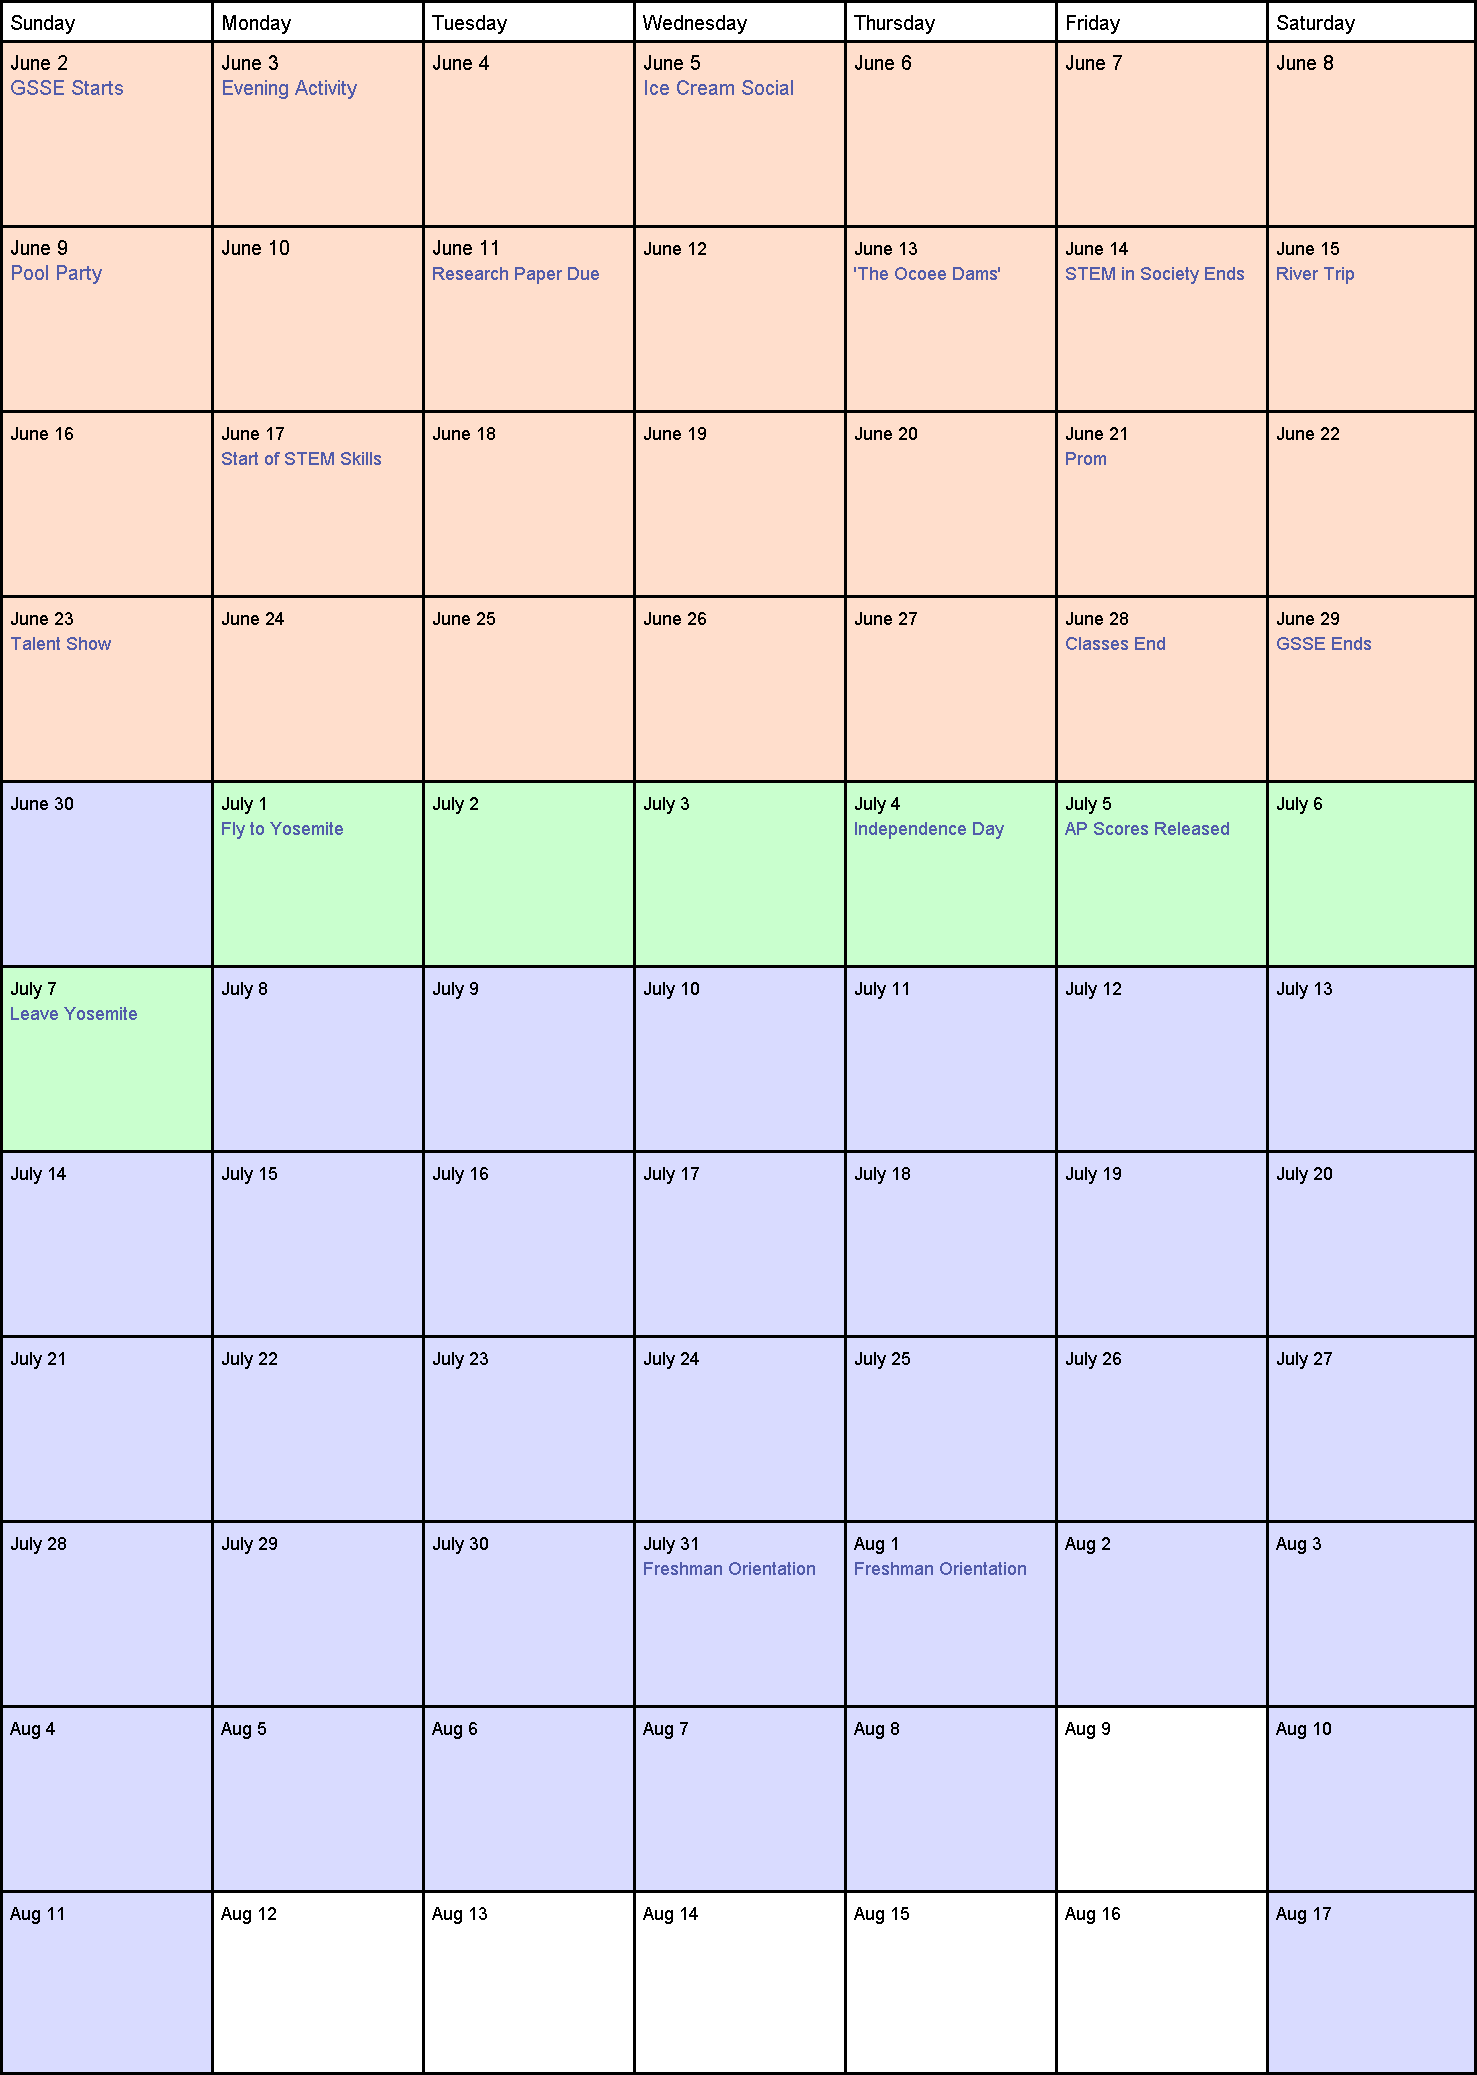
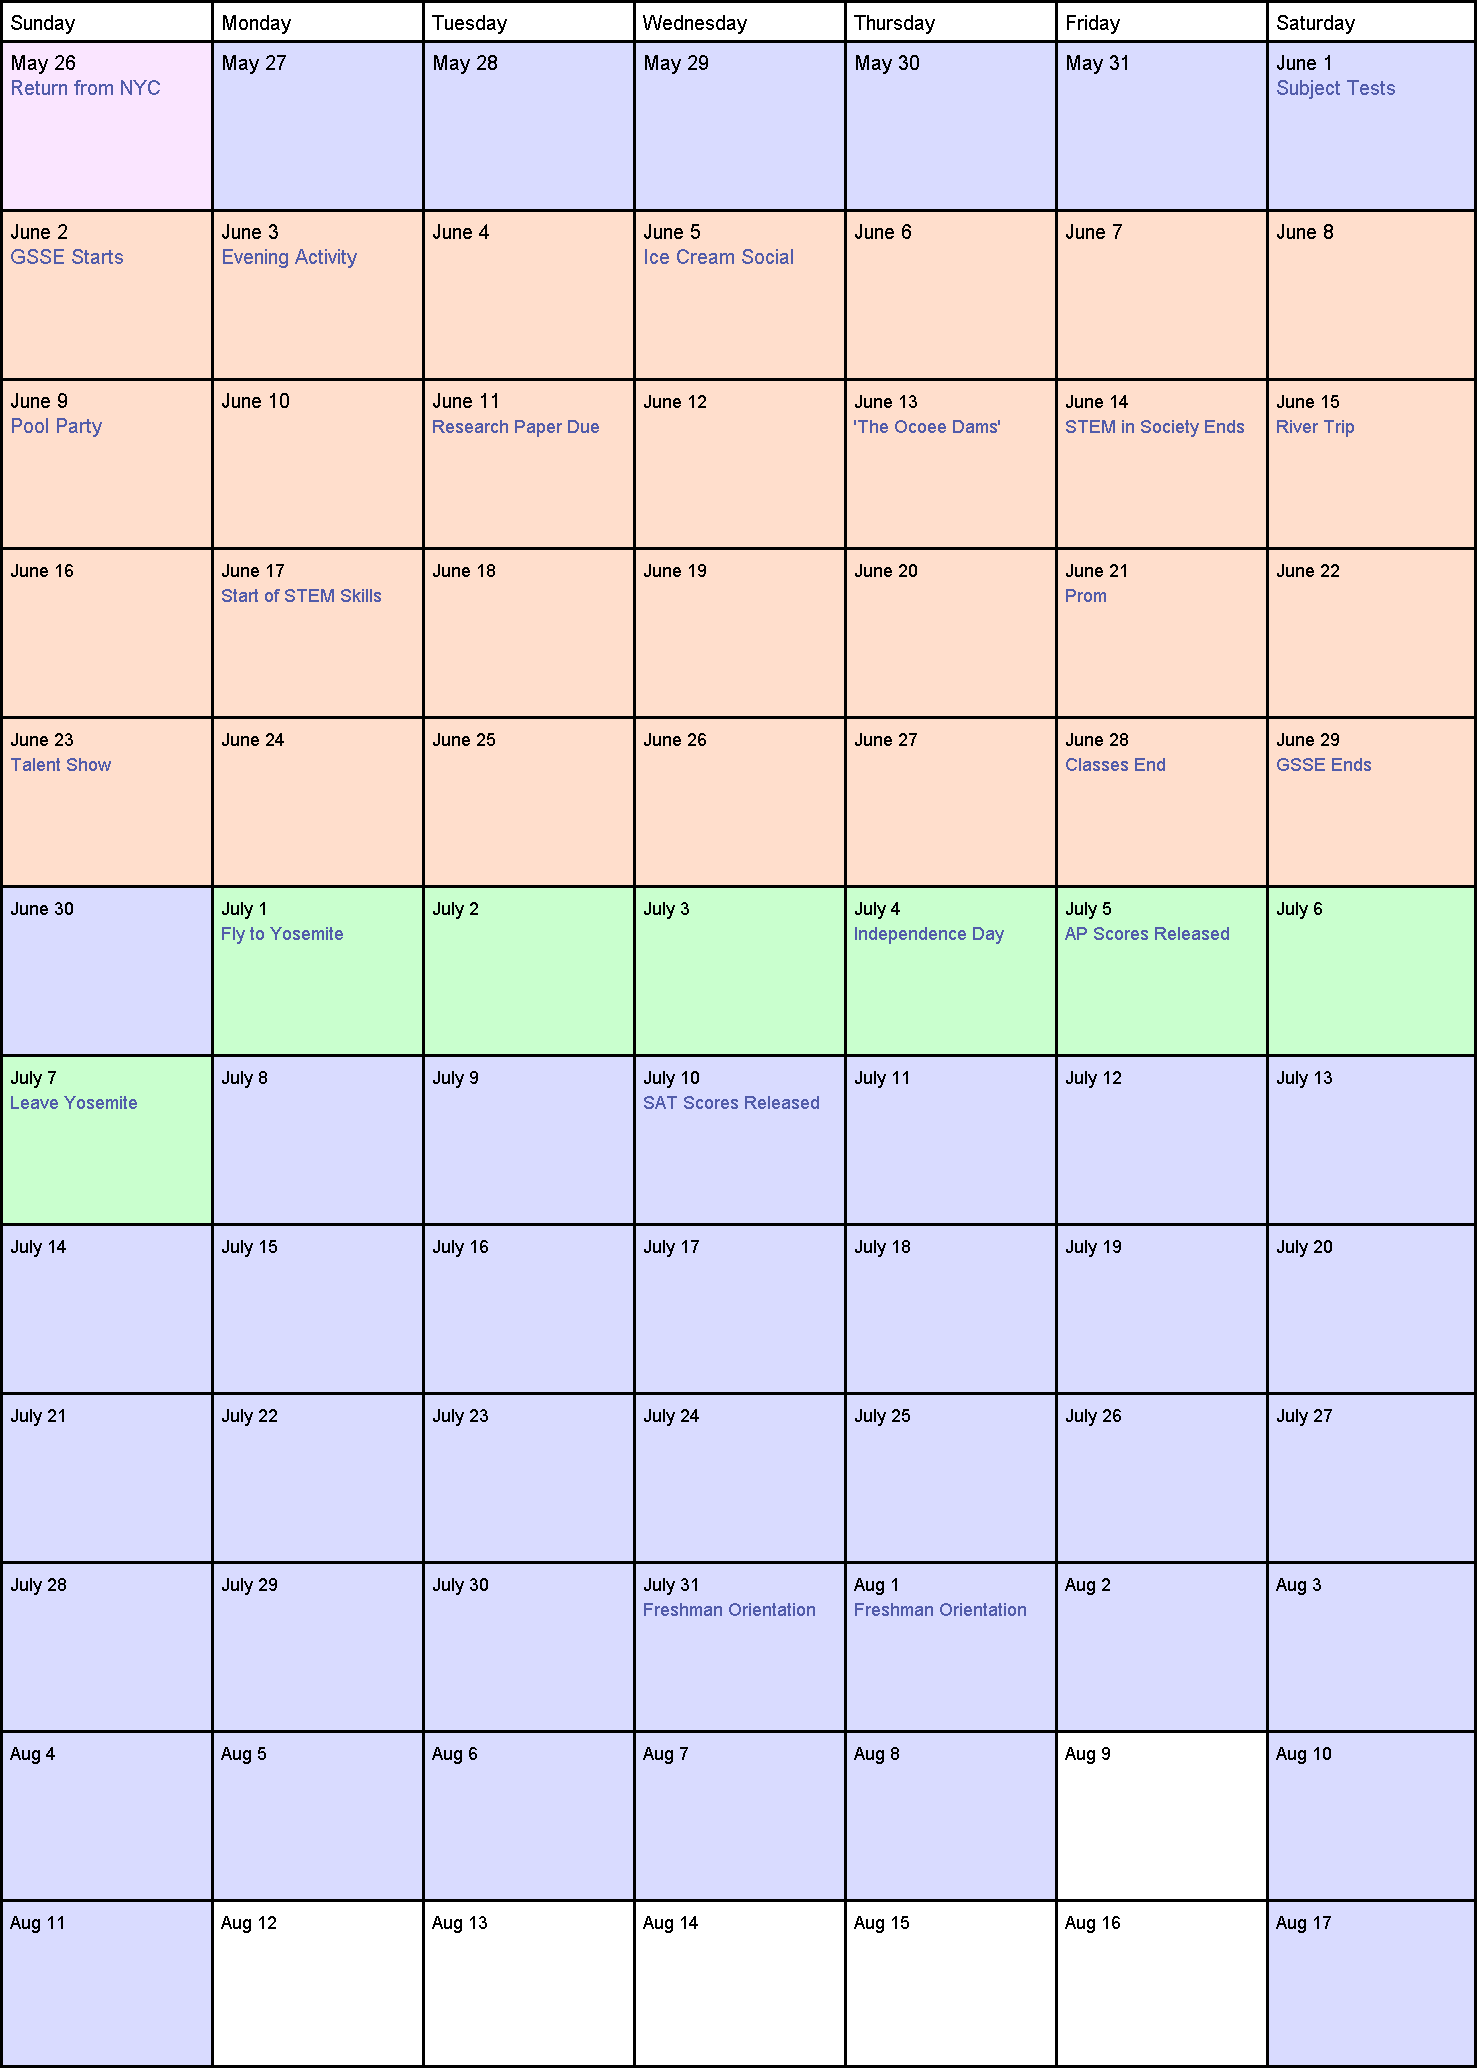
spawning rework

diff --git a/src/Calendar.java b/src/Calendar.java
@@ -25,7 +25,7 @@ public class Calendar extends Applet implements Runnable, KeyListener {
     int[] daysPerMonth=new int[]{ 31  , 28  , 31  , 30  , 31  , 30   , 31   , 31  , 30   , 31  , 30  , 31  };
     String[] months=new String[]{"Jan","Feb","Mar","Apr","May","June","July","Aug","Sept","Oct","Nov","Dec"};
     int adj=2;
-    int start=getDayofYear(2,6);
+    int start=getDayofYear(26,5);
     int end=getDayofYear(17,8);
     int rows=(int)(Math.ceil((end-start)/7.0));
     ArrayList<String>[] events;
@@ -66,7 +66,11 @@ public class Calendar extends Applet implements Runnable, KeyListener {
     //           ADD EVENTS TO THE CALENDAR
     public void addEvents(){
         addWeeklyEvents();
-
+        addEvent("Subject Tests", getDayofYear(1,6),1);
+        addEvent("Yearbook Pic Due", getDayofYear(23,6),1);
+        addEvent("STEM Skills Due", getDayofYear(24,6),1);
+        addEvent("Neodymium Due", getDayofYear(26,6),1);
+        addEvent("SAT Scores Released", getDayofYear(10,7), 1);
 
     }
 
